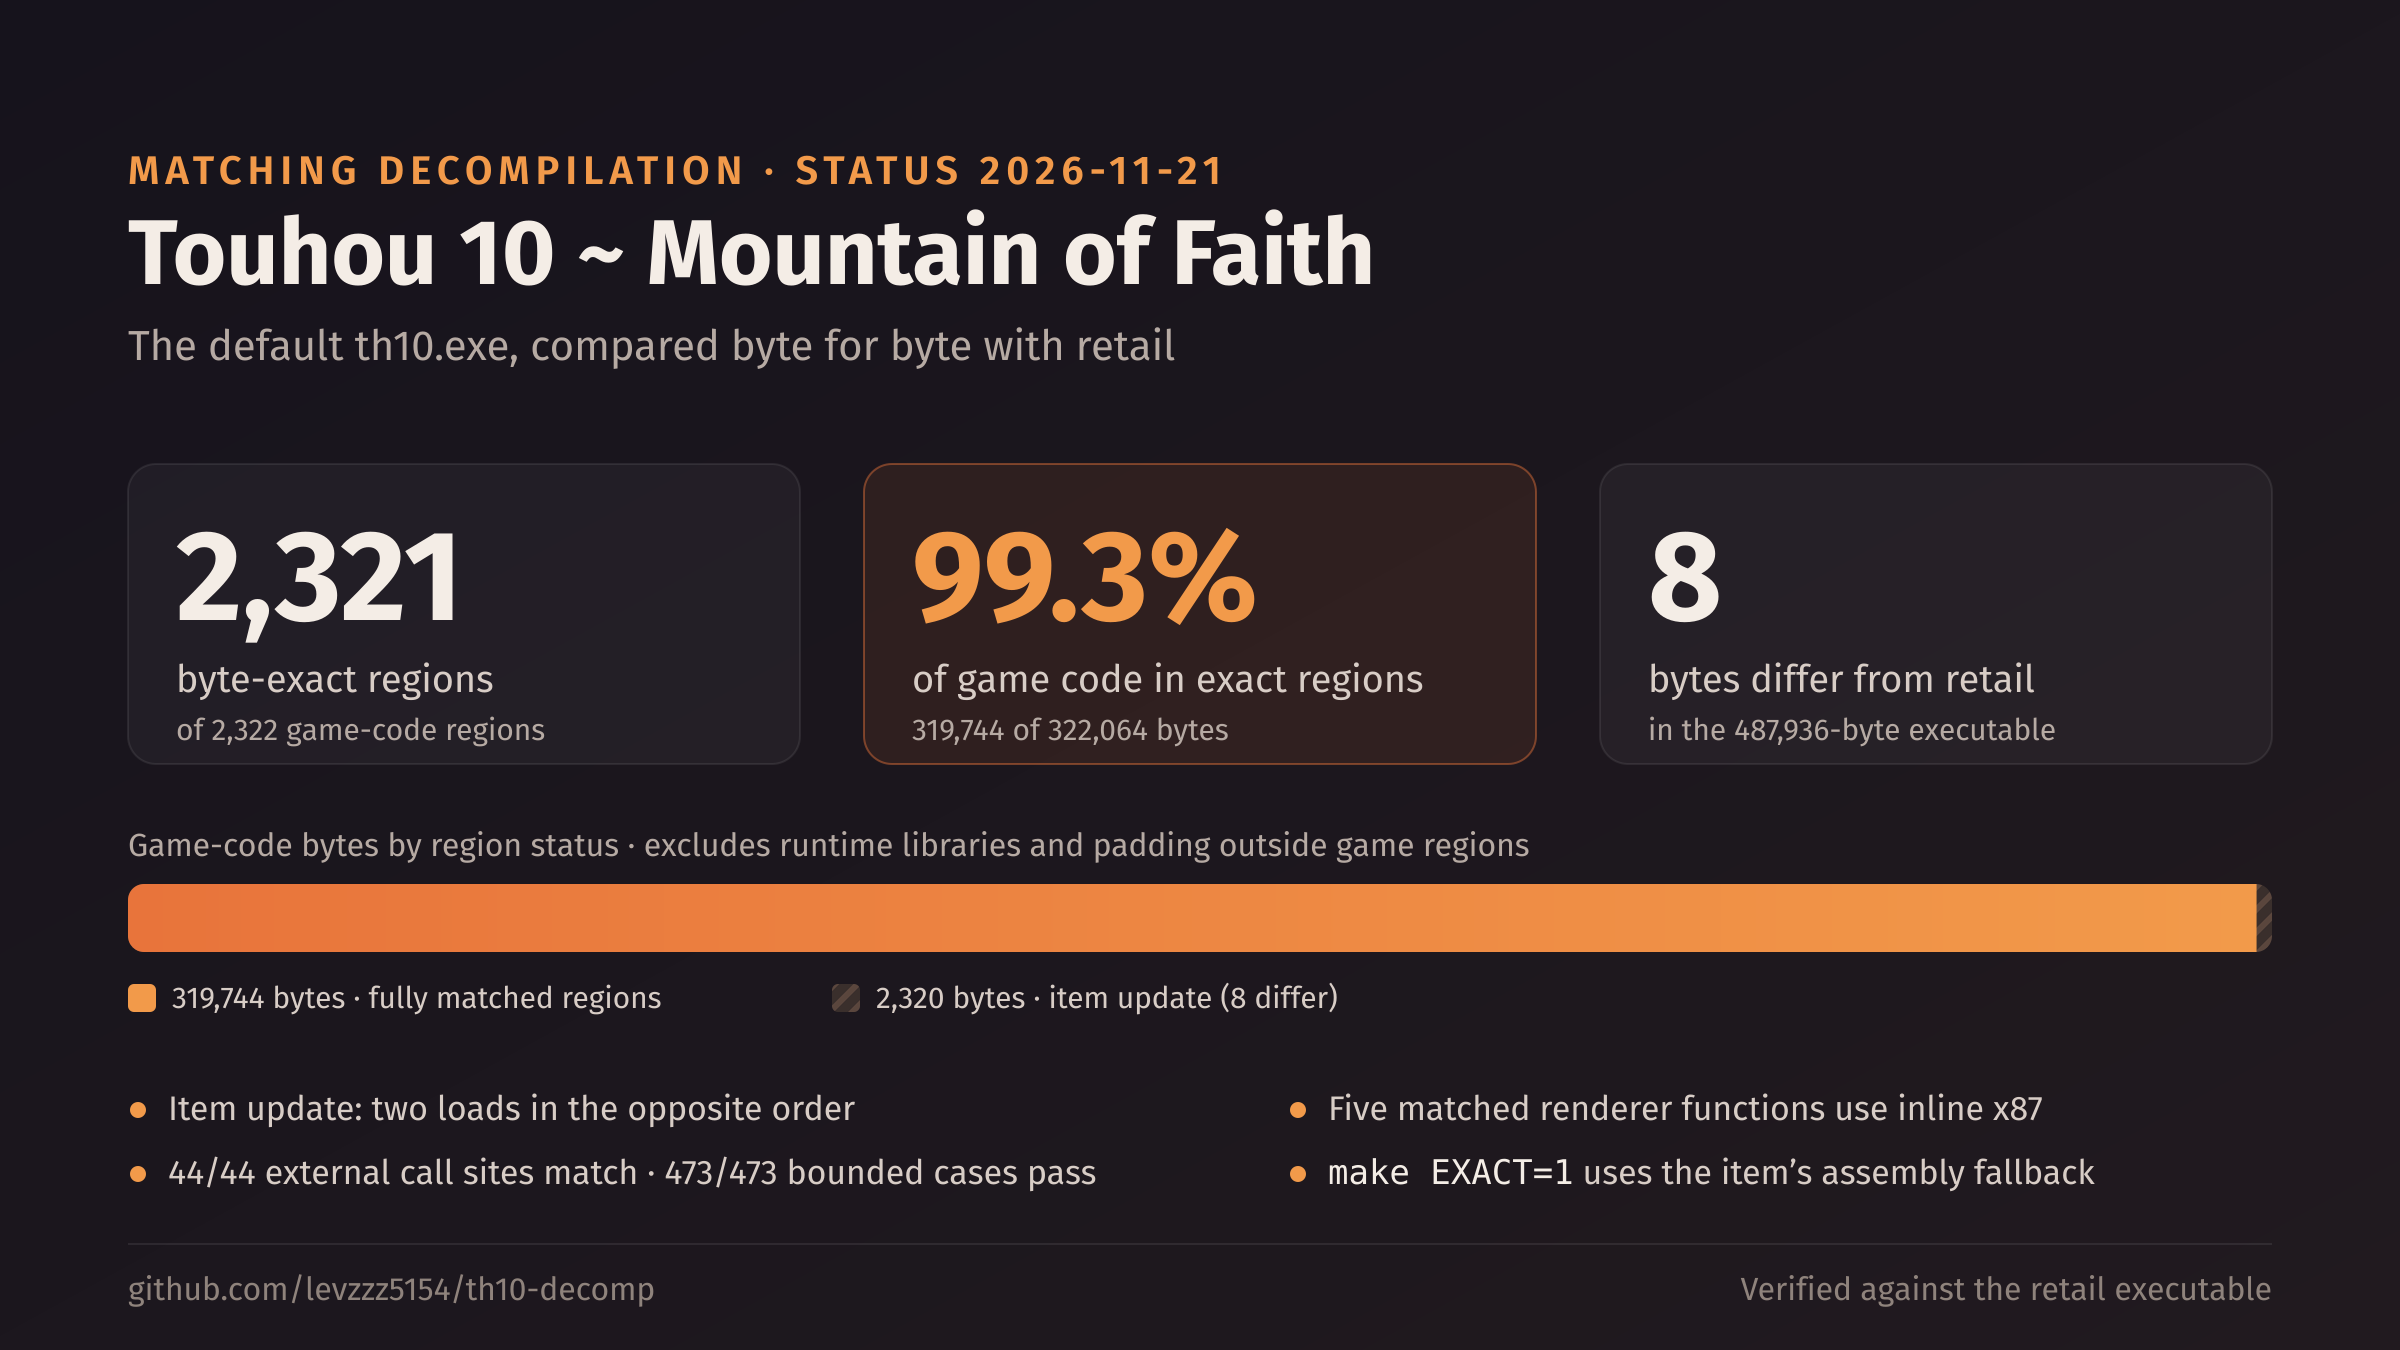
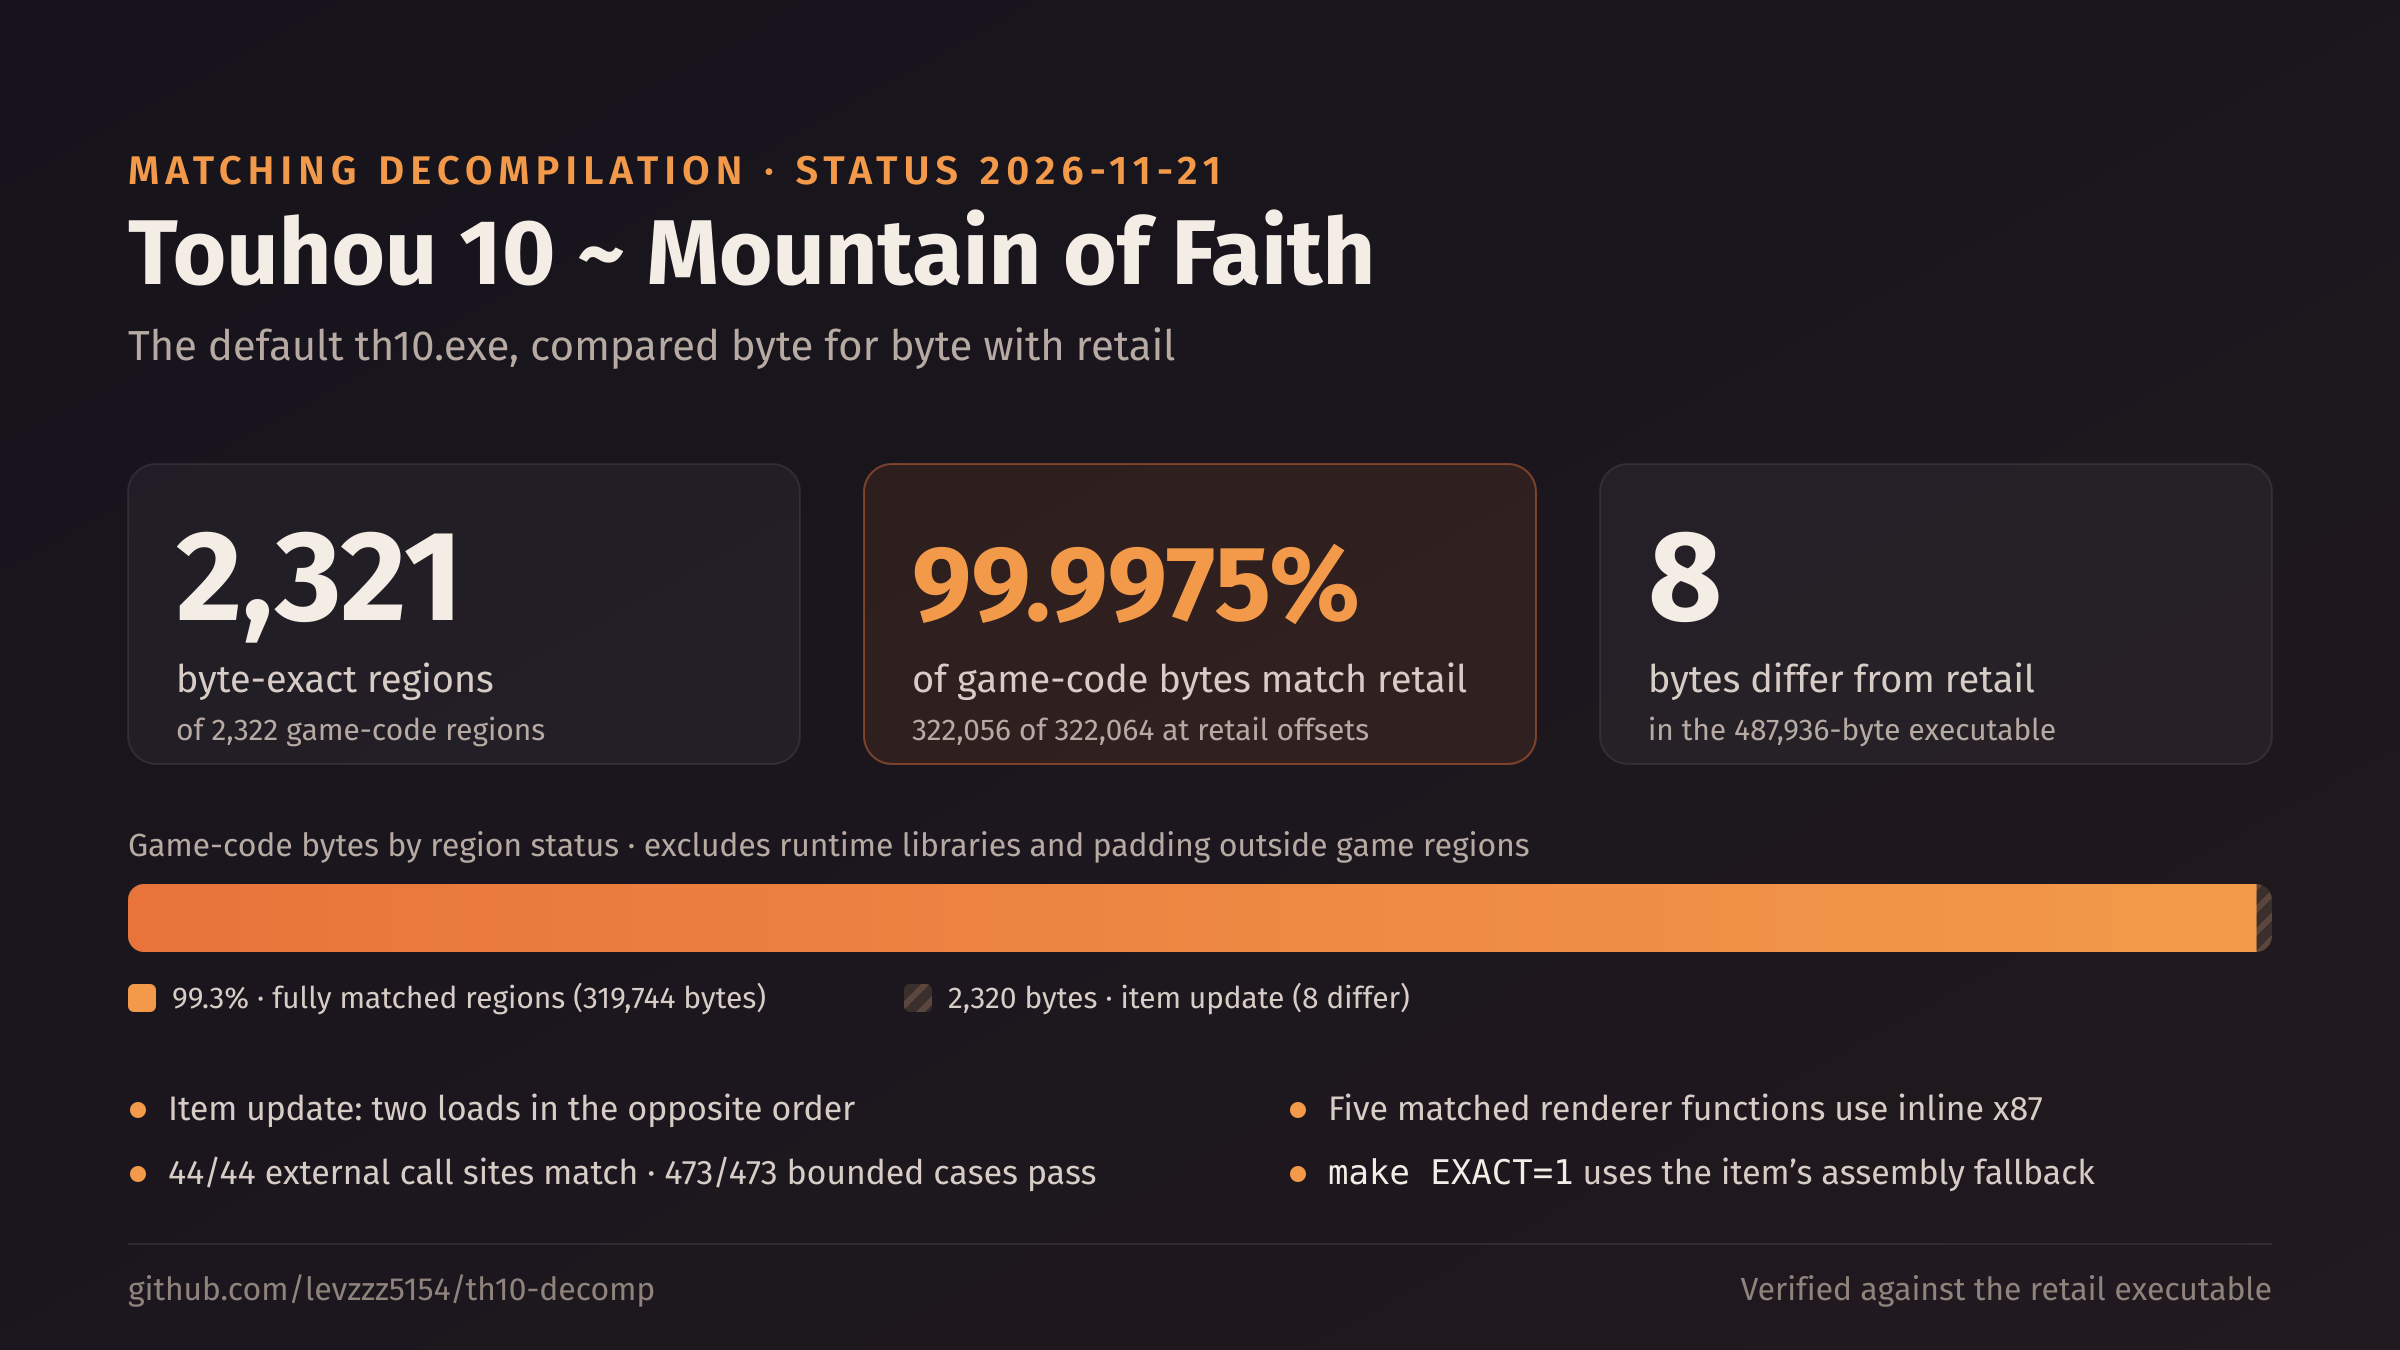
Show the measured byte match in the README status image

diff --git a/README.md b/README.md
@@ -3,7 +3,7 @@
 C++ recovery of Touhou 10, checked against the retail `th10.exe` using the
 original MSVC 7.1 whole-program optimizer and byte comparisons.
 
-![Touhou 10 build status: 2,321 of 2,322 game regions match retail; the default executable differs by 8 bytes.](docs/status.png)
+![Touhou 10: 322,056 of 322,064 game-code bytes match at their retail offsets (99.9975%); 8 bytes differ.](docs/status.svg)
 
 **2,321 of 2,322 game-code regions match retail byte for byte.** Together they
 cover 319,744 of 322,064 game bytes (99.3%), including the entire 1,400-byte
